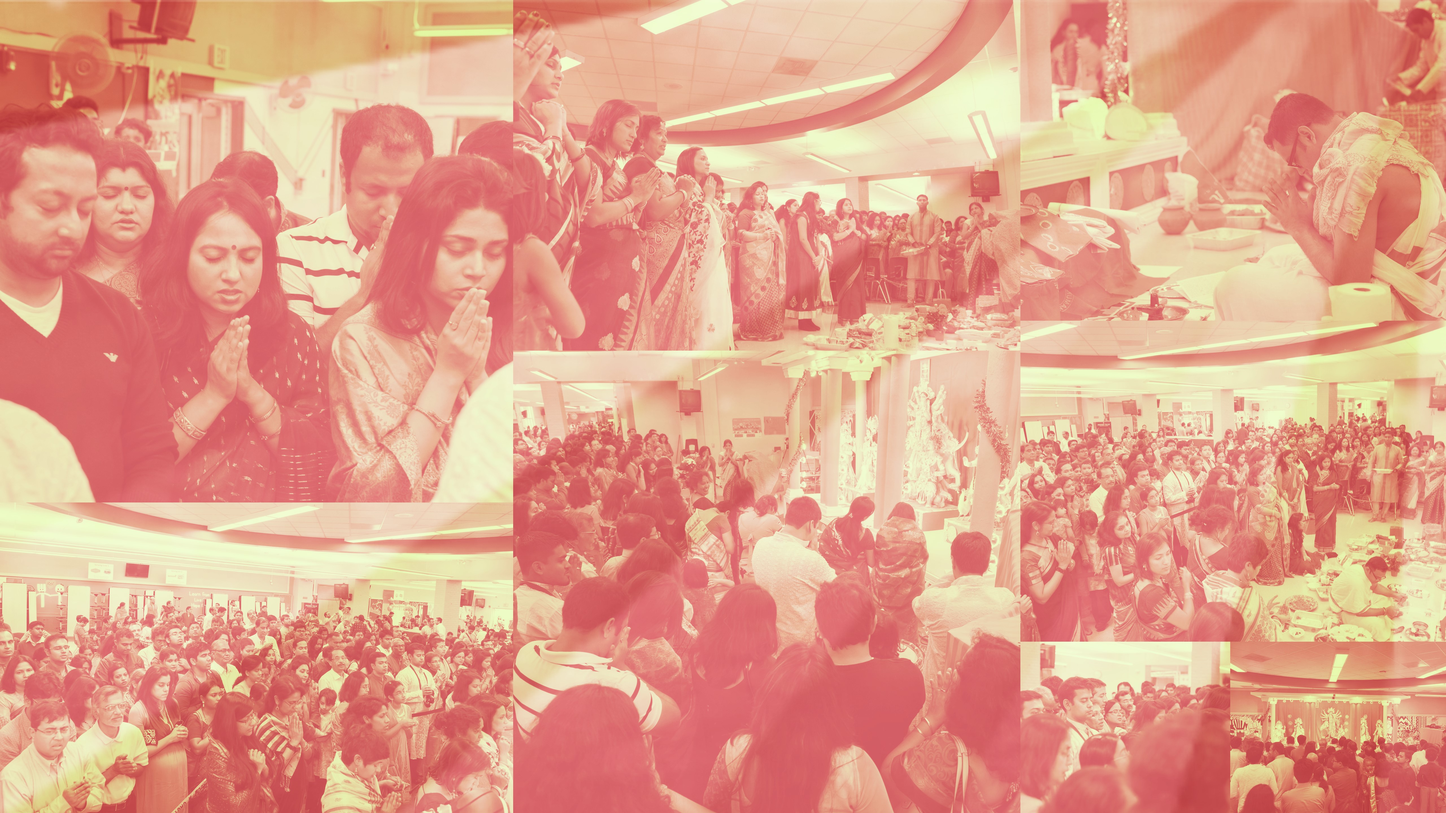
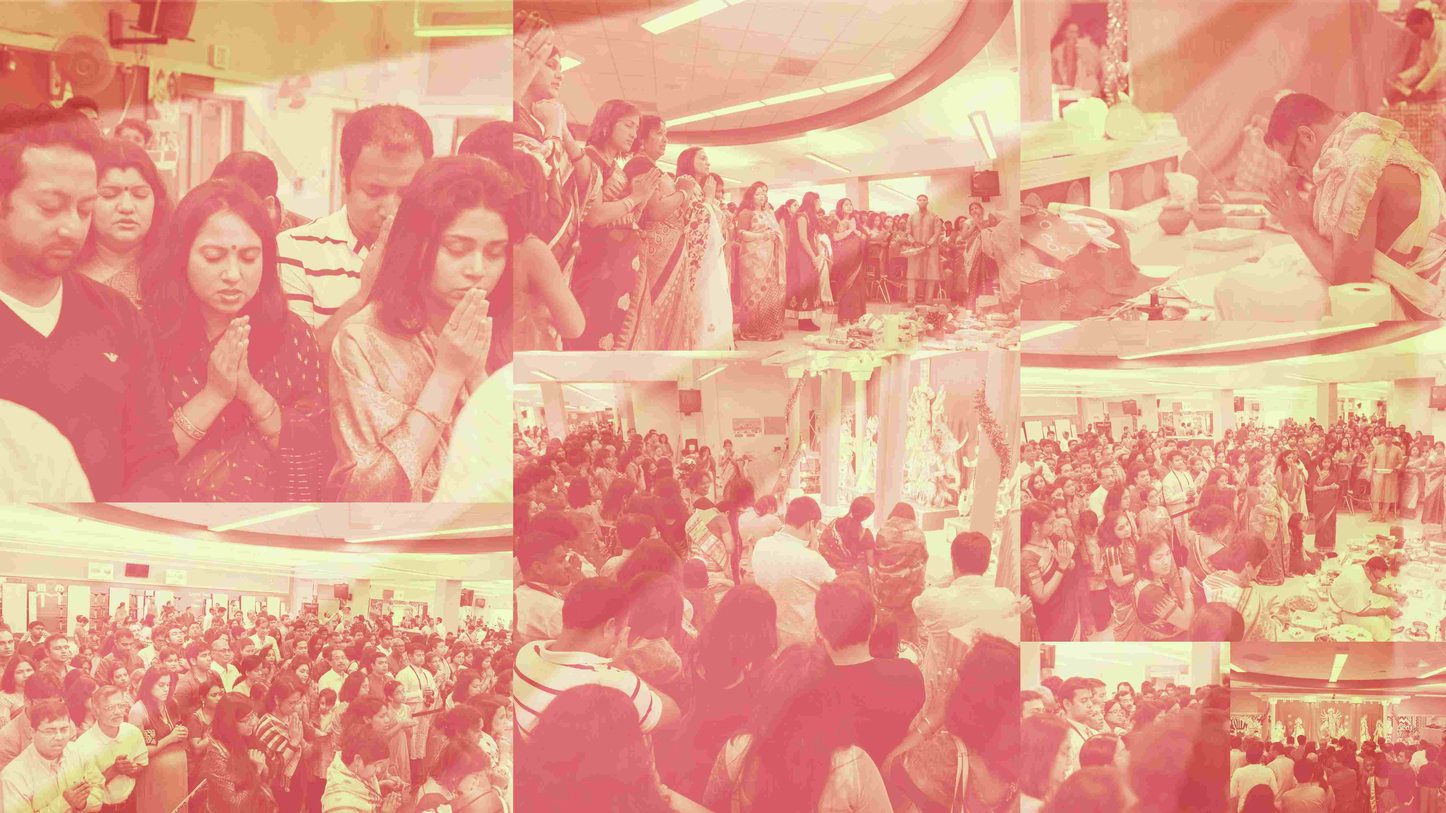
image optimizations

Changed region(s): [[0.1875, 0.75, 0.2812, 0.7812], [0.9375, 0.875, 1.0, 0.9062], [0.8438, 0.875, 0.875, 0.9062]]

diff --git a/index.html b/index.html
@@ -233,7 +233,7 @@
                     <p>&nbsp;&nbsp;</p>
                 </div>
                 <div class="col-md-4 padded-section-small">
-                    <img class="featurette-image img-responsive" src="img/puja.jpg" data-src="img/puja.jpg" alt="Utsov Puja">
+                    <img class="featurette-image img-responsive" src="img/puja-sm.jpg" data-src="img/puja-sm.jpg" alt="Utsov Puja">
                 </div>
             </div>
 
@@ -947,7 +947,7 @@
                             </a>
                     </div>
                     <div class="col-lg-3">
-                        <a class="btn btn-success disabled" href="#/AddSubmission" role="button" data-toggle="modal" data-target="#contactModal">Contest Submissions
+                        <a class="btn btn-success" href="#/AddSubmission" role="button" data-toggle="modal" data-target="#contactModal">Contest Submissions
                             <span class="icon fa fa-camera-retro"></span>
                             </a>
                     </div>
